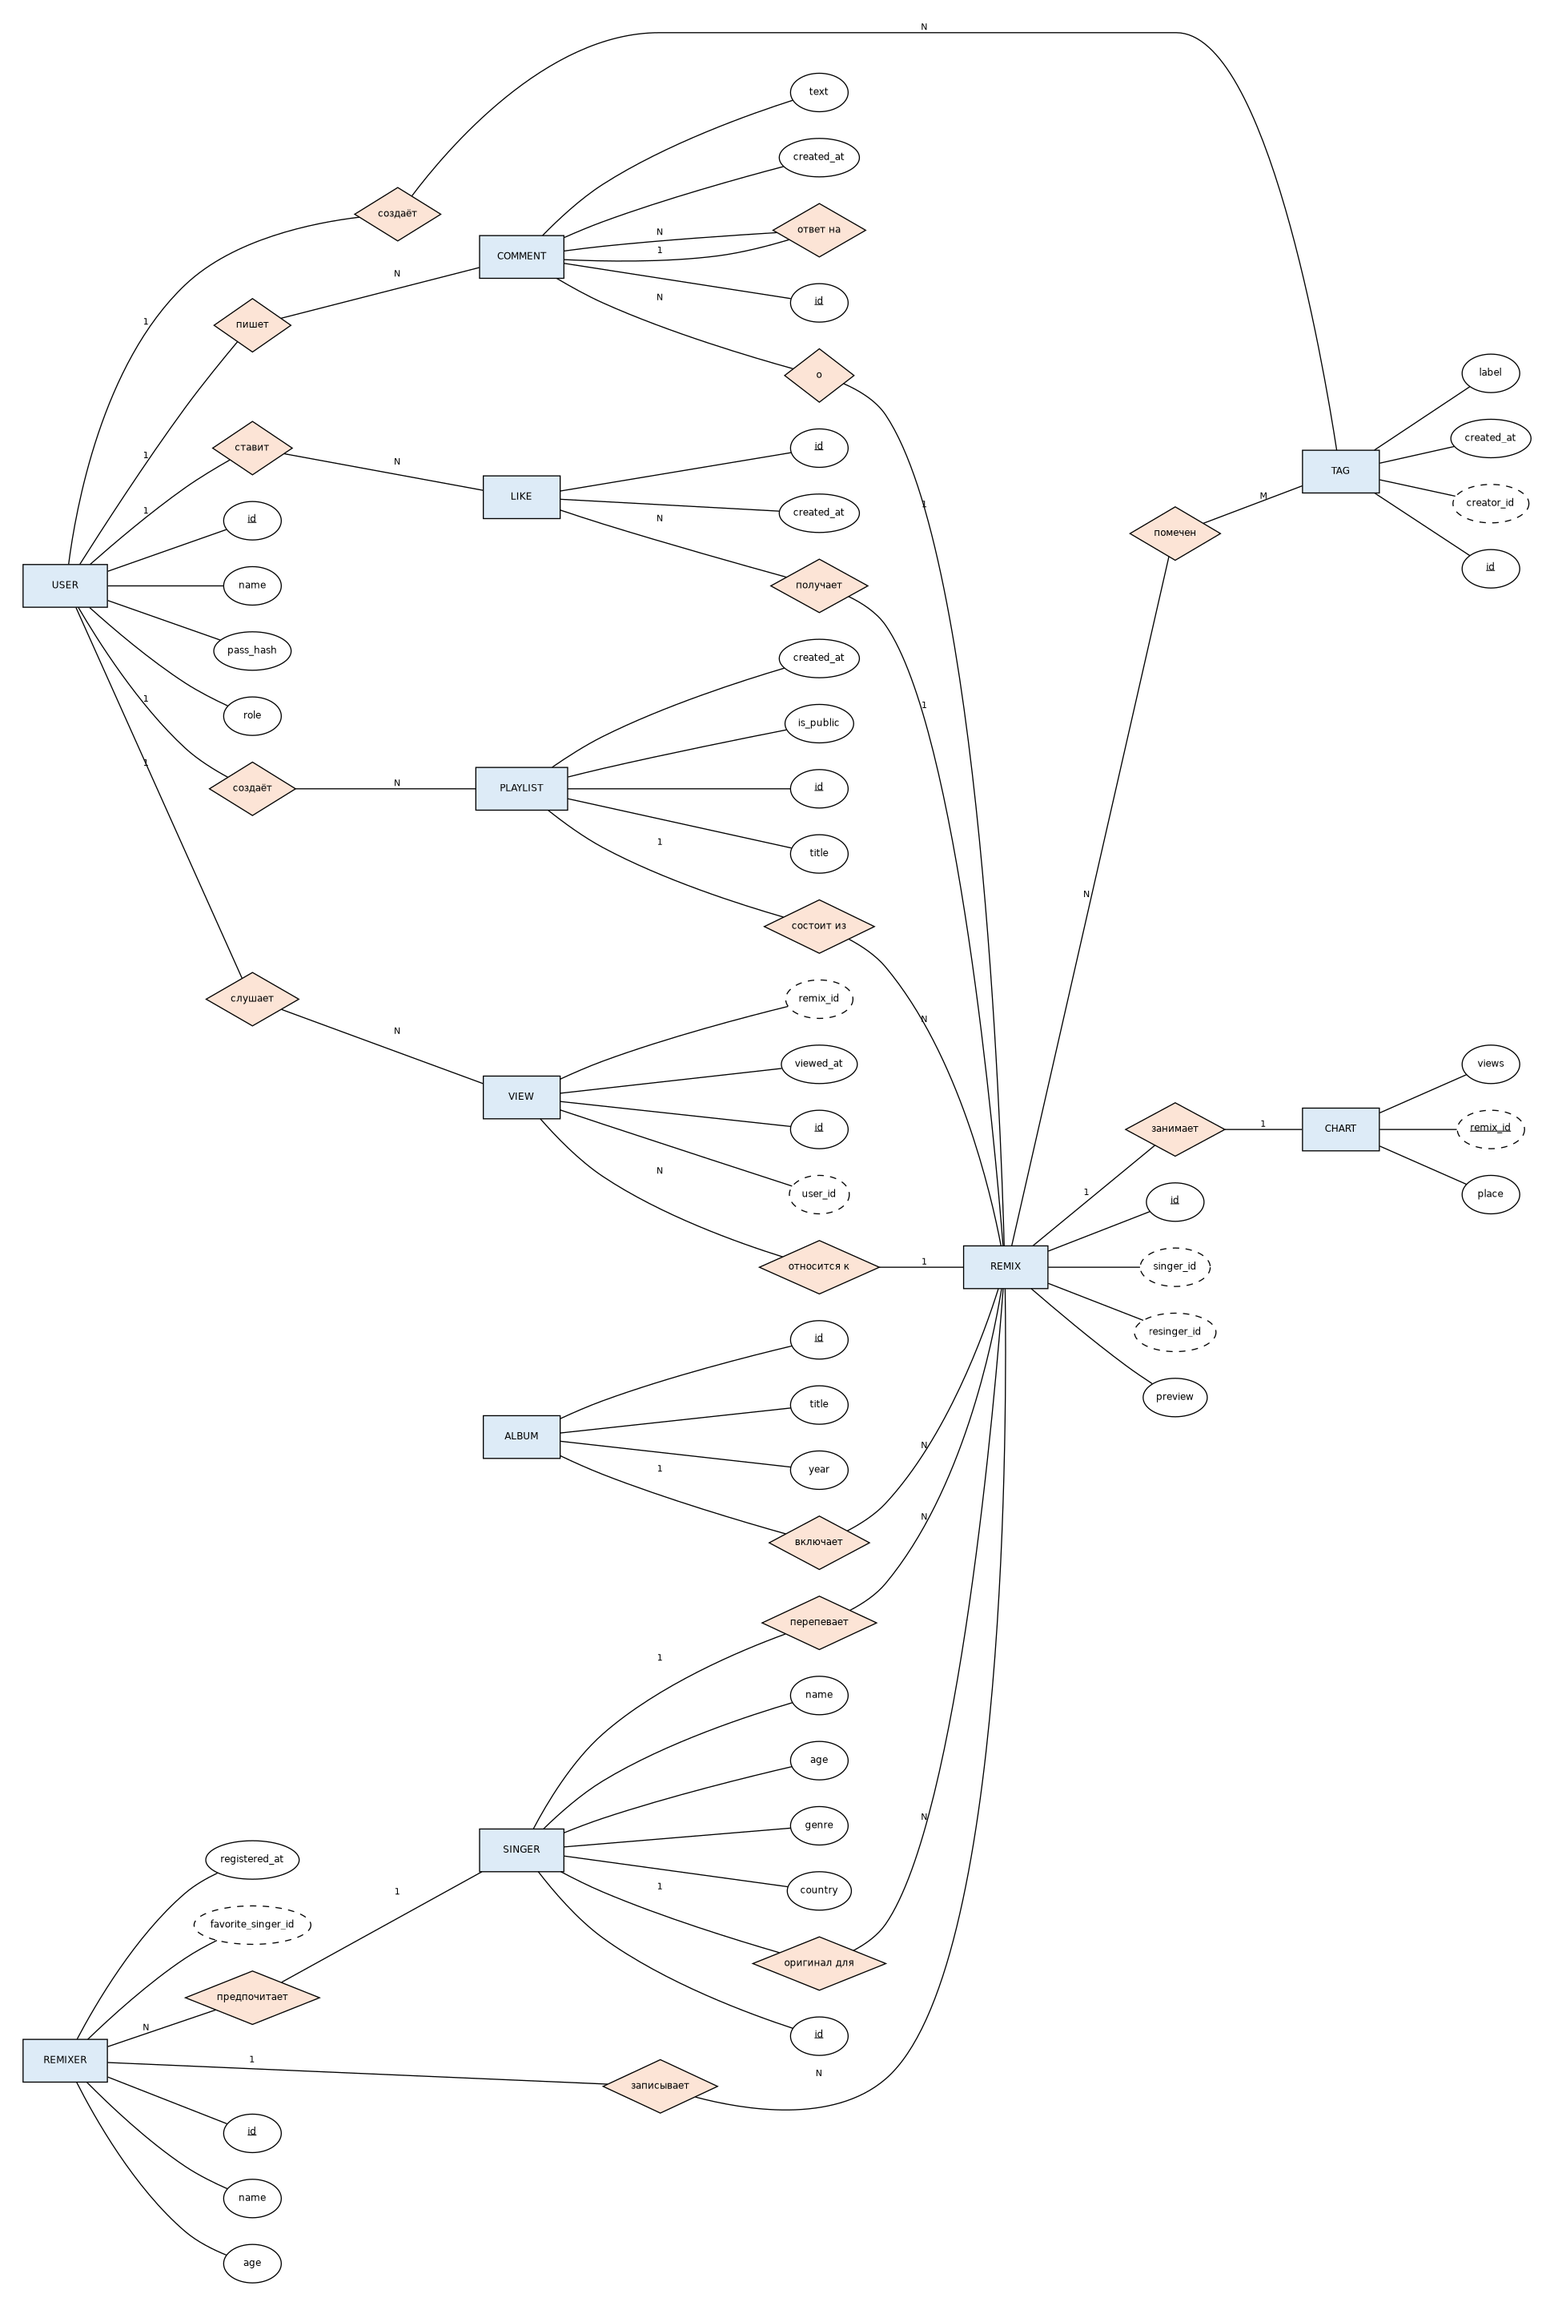
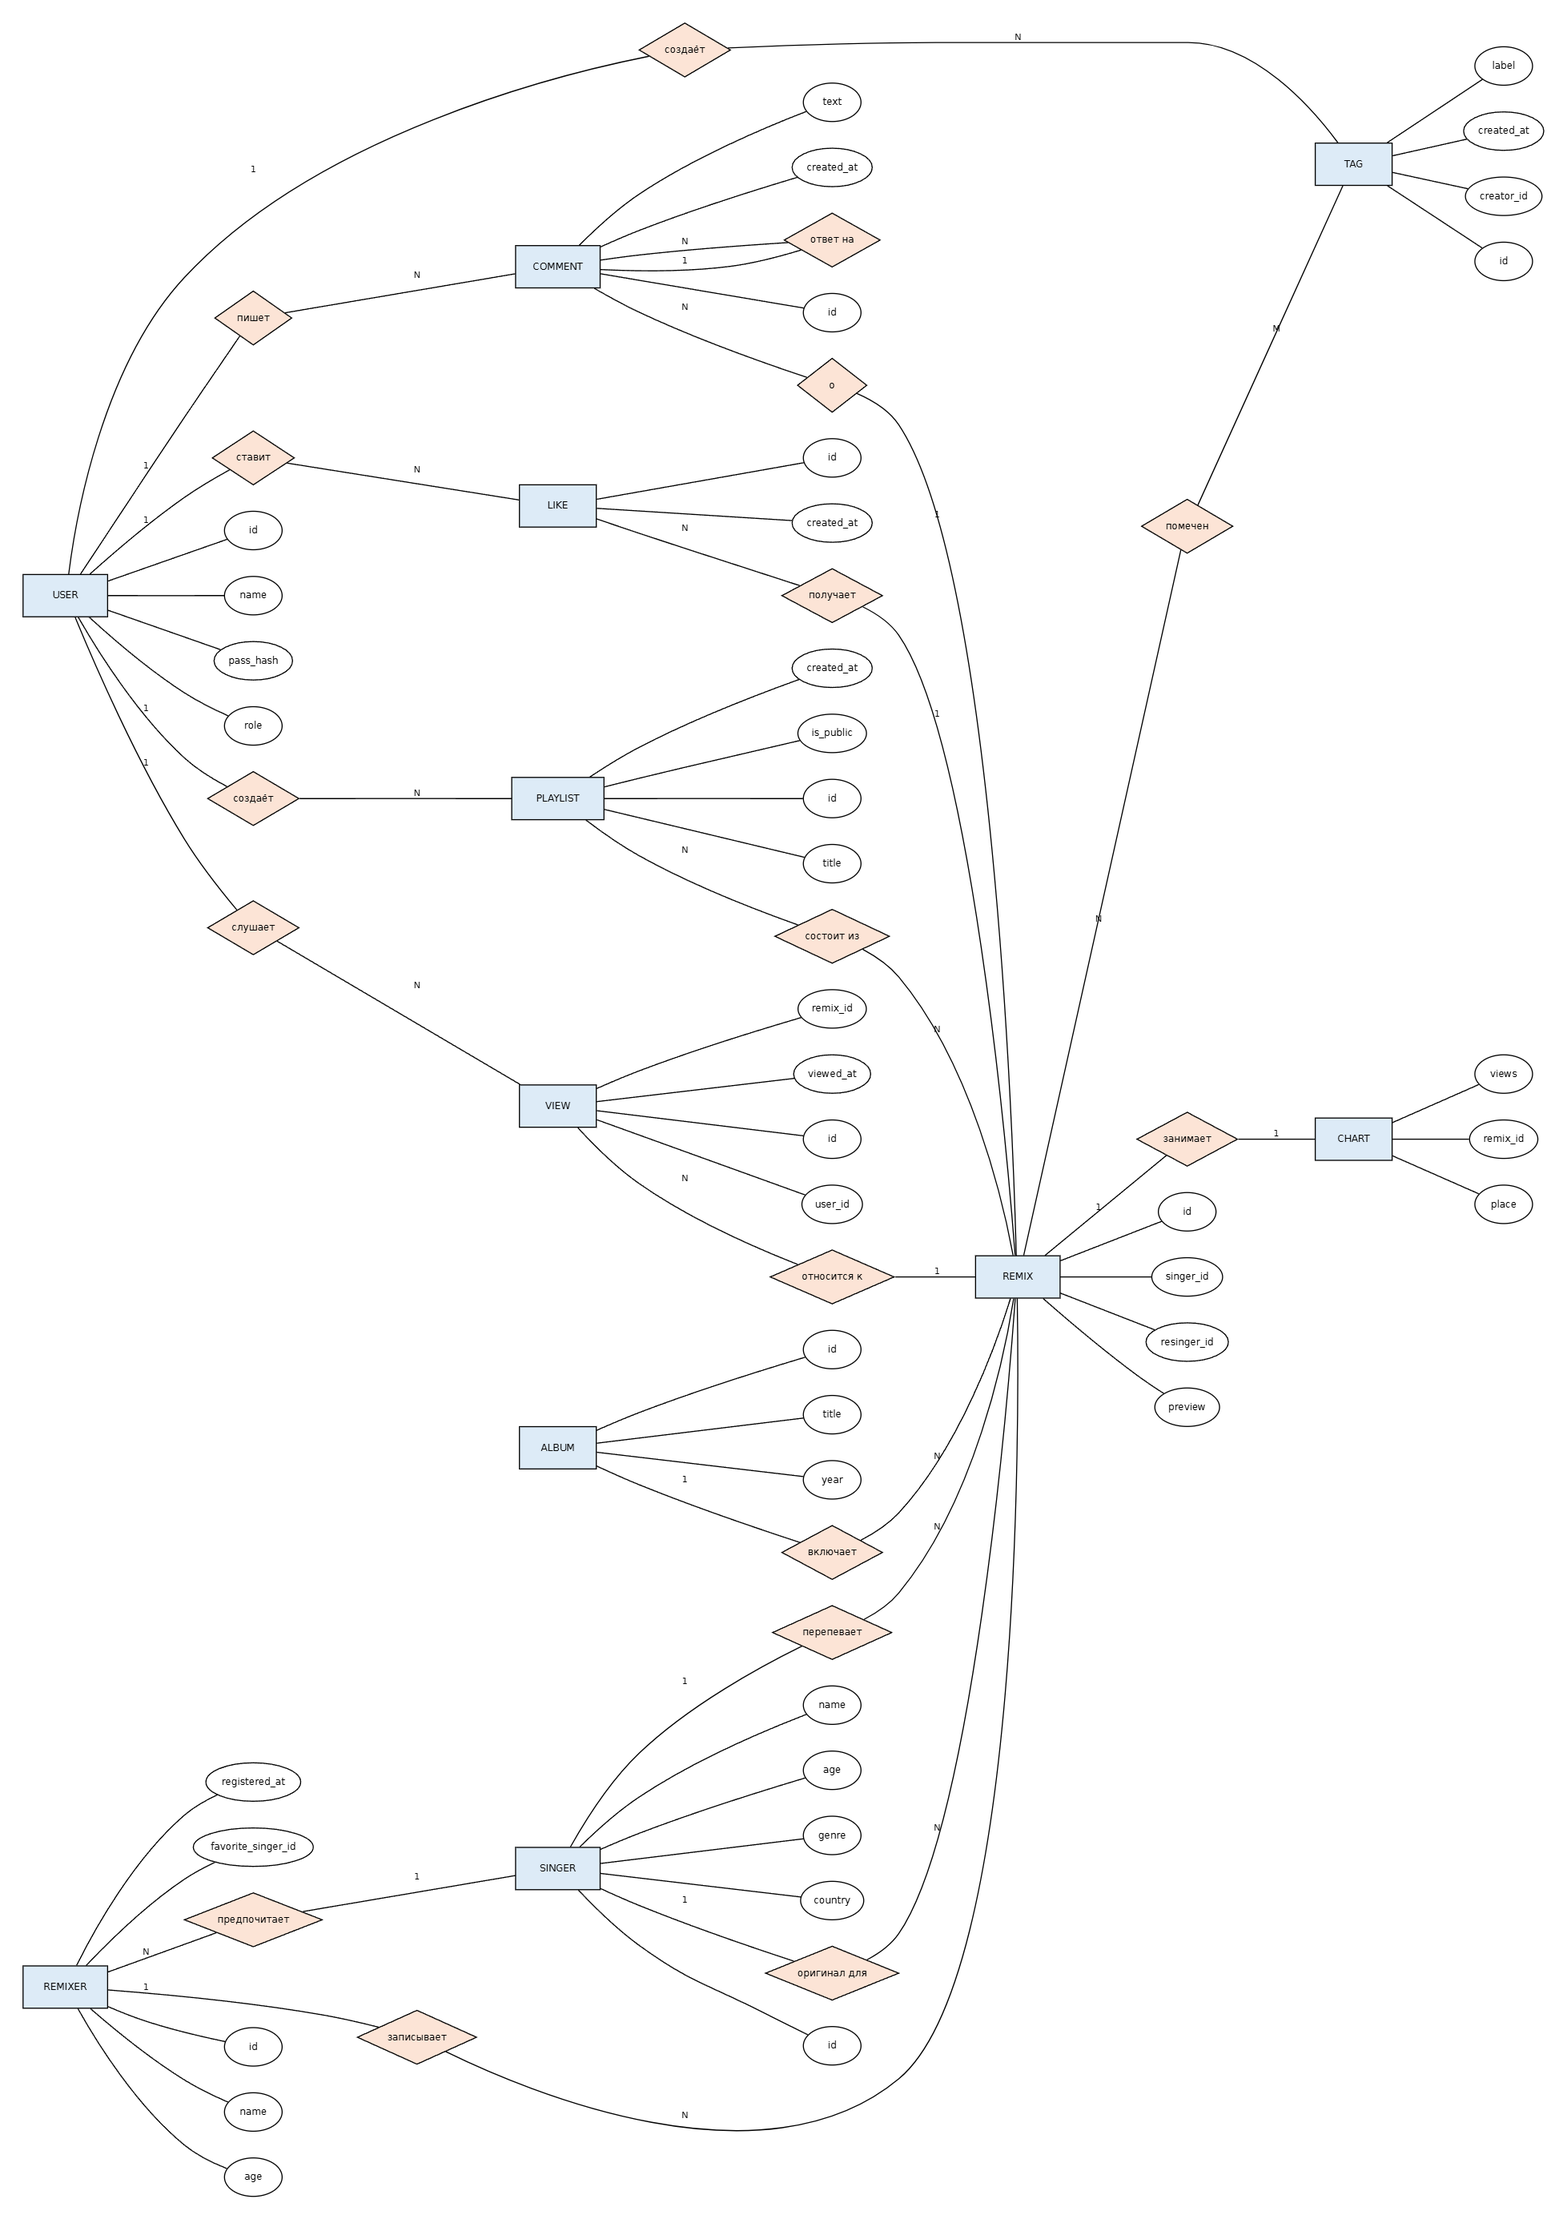
upd: added lmd diagram (#2)

diff --git a/1. ER диаграмма/README.md b/1. ER диаграмма/README.md
@@ -54,19 +54,13 @@
 ## 3. Ограничения предметной области
 
 1. **Один к одному для чарта.** У ремикса ровно одна запись в `CHART`.
-   Реализуется через `PK = FK` (`CHART.remix_id`).
 2. **Ссылочная целостность.** Удаление `REMIX` каскадно удаляет связанные
    `LIKE`, `COMMENT`, `VIEW` и запись `CHART`. Удаление `USER` каскадно
    удаляет его `VIEW`, `LIKE`, `COMMENT` и созданные `TAG`. Удаление
    `REMIXER` каскадно удаляет его `REMIX`.
 3. **Разграничение прав доступа.** Только `REMIXER` публикует ремиксы;
    `PLAYLIST.is_public` ограничивает видимость плейлистов.
-4. **Связь N:M `REMIX ↔ TAG`.** На физическом уровне реализуется через
-   таблицу-связку `REMIX_TAG(remix_id, tag_id)` с составным первичным ключом.
-5. **Отсутствие циклов в `COMMENT`.** Комментарий не может быть ответом сам
-   на себя; ответ относится к тому же ремиксу. Ограничение уровня СУБД.
-6. **`REMIXER` и `USER` независимы.** Автор ремикса может существовать без
-   учётной записи в сервисе. Если потребуется связать их — отдельная связь 1:1.
-7. **Лента не хранится.** Формируется запросом поверх `VIEW`, `LIKE`,
-   `PLAYLIST`, `REMIX`. Индекс `VIEW(user_id, viewed_at DESC)` ускоряет
-   выборку последних прослушиваний.
+4. **Отсутствие циклов в `COMMENT`.** Комментарий не может быть ответом сам
+   на себя; ответ относится к тому же ремиксу.
+5. **`REMIXER` и `USER` независимы.** Автор ремикса может существовать без
+   учётной записи в сервисе.
